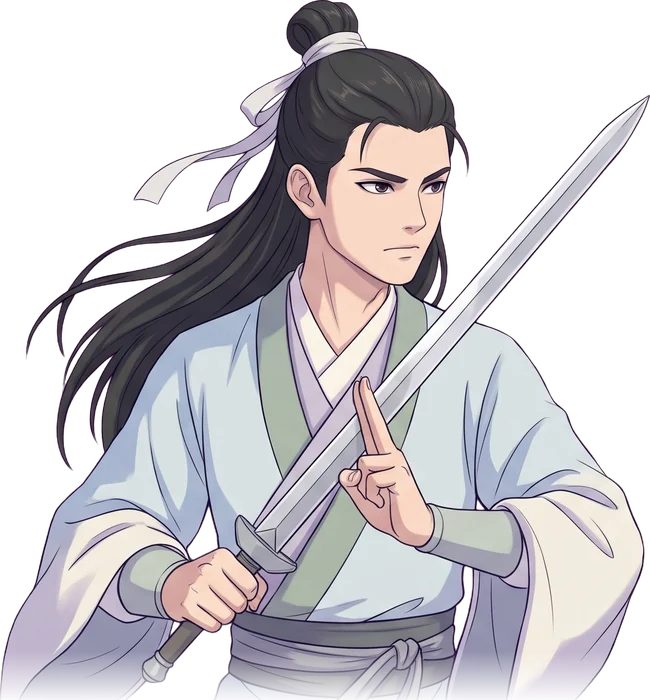
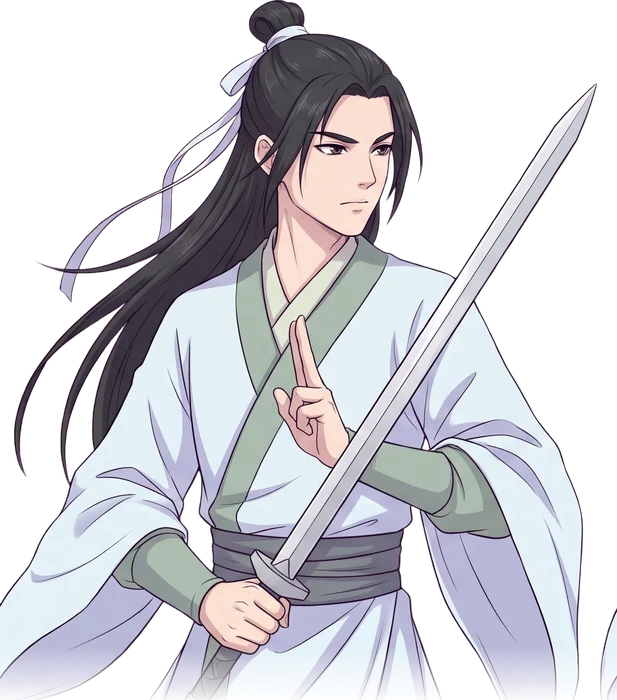
最終版124e:男主戰鬥半身換新(戰意/負傷)
Claude-Session: https://claude.ai/code/session_01Eudv1bj25nFF4NszqJcvVs

diff --git a/index.html b/index.html
@@ -16407,7 +16407,7 @@ window.BP114 = {"F_o1_1": "assets/BP/F_o1_1.webp?v=845711f1", "F_o1_2": "assets/
 window.UC121 = {"F_sword": "assets/UC/F_sword.webp?v=d6b677e1", "F_magic": "assets/UC/F_magic.webp?v=c86b9151", "F_body": "assets/UC/F_body.webp?v=ed430cdf", "F_pill": "assets/UC/F_pill.webp?v=a4586067", "M_sword": "assets/UC/M_sword.webp?v=e231c3ac", "M_magic": "assets/UC/M_magic.webp?v=1e32114b", "M_body": "assets/UC/M_body.webp?v=5d231bd2", "M_pill": "assets/UC/M_pill.webp?v=a7f87dd1"};
 
 /* v124 選招面板主角半身(n=戰意 h=負傷) */
-window.CP124 = {"F_n": "assets/CP/F_n.webp?v=fdc6f39c", "F_h": "assets/CP/F_h.webp?v=7e210eae", "M_n": "assets/CP/M_n.webp?v=2309679a", "M_h": "assets/CP/M_h.webp?v=c014af9b"};
+window.CP124 = {"F_n": "assets/CP/F_n.webp?v=fdc6f39c", "F_h": "assets/CP/F_h.webp?v=7e210eae", "M_n": "assets/CP/M_n.webp?v=ed336fd6", "M_h": "assets/CP/M_h.webp?v=dda6f675"};
 
 /* ===== v113 重要戰鬥:獨立戰鬥介面 + 回合制 QTE + Boss 階段演出 ===== */
 (() => {
